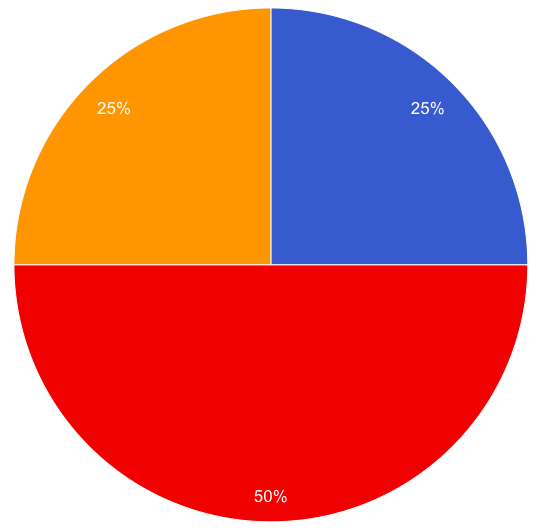
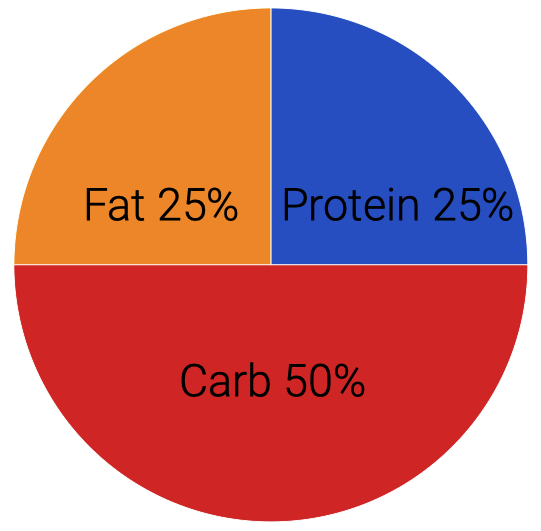
macro page done

diff --git a/macropercent.html b/macropercent.html
@@ -14,12 +14,21 @@
  	<h1>Macronutrient Percentages</h1>
 </div>
 <div class="center">
-	<h3 class="paragraph">The values are given in percentages of your food intake.</h3>
-	<p class="paragraph">Pick from suggested macros or customize it!</p>
-	<div class="options">
-		<img src="img/weightloss.png">
-	</div>
-	<table class="details">
+	<h3 class="paragraph">The values are given in percentages of your food intake</h3>
+	<p class="paragraph">Pick from suggested macros or customize it</p>
+	<p class="paragraph">For weight loss: </p>
+	<input type="image" src="img/weightloss.png" name="saveForm" class="piechart" onclick="window.location.href='pickingredient.html'"/>
+
+	<p class="paragraph">For muscle gain: </p>
+	<input type="image" src="img/musclegain.png" name="saveForm" class="piechart" onclick="window.location.href='pickingredient.html'"/>
+
+	<p class="paragraph">For maintenance: </p>
+	<input type="image" src="img/maintenance.png" name="saveForm" class="piechart" onclick="window.location.href='pickingredient.html'"/>
+
+	<p class="paragraph">For custom input: </p>
+
+<!-- 	<img class="piechart" src="img/weightloss.png"> 
+ -->	<table class="details">
 		<tr>
 			<td>
 				<input class="inputfld" type="number" name="carbs" placeholder="carbs">
@@ -37,6 +46,7 @@
 			</td>
 		</tr>
 	</table>
+	<br> <br> <br> <br> <br> <br>
 </div>
 <div class="footer">
 		<button button onclick="window.location.href='pickingredient.html'" class="footerbtn">Next</button>

diff --git a/css/macropercent.css b/css/macropercent.css
@@ -6,13 +6,6 @@
     margin-top: 150px;
 }
 
-.options{
-    margin: auto;
-    width: 60%;
-    margin-left: auto;
-    margin-right: auto;
-}
-
 .paragraph{
     font-family: 'Roboto', sans-serif;
     left: 0;
@@ -174,11 +167,34 @@
     border-radius: 25px;
 }
 
-img {
-    border-radius: 7%;
-    max-width: 40%;
-    max-height: 40%;
+.picker {
+    display: block;
+    width: 60%;
+    margin-left: auto;
+    margin-right: auto;
 }
+
+img {
+    display: block;
+    width: 60%;
+    margin-left: auto;
+    margin-right: auto;
+}
+
+.piechart {
+    height: 200px; 
+    width: 200px; 
+    overflow: hidden;
+    margin-left: auto;
+    margin-right: auto;
+    display: block;
+}
+
+.label { 
+    height: 100px;
+    width: 100px;
+    overflow: hidden;
+ }
 
 .shrey {
     position: relative;
@@ -192,6 +208,7 @@ img {
     height: 50px;
     border-radius: 25px;
 }
+
 .buttonadd:hover {
     background-color: #BB6C77; /* Green */
     color: white;
